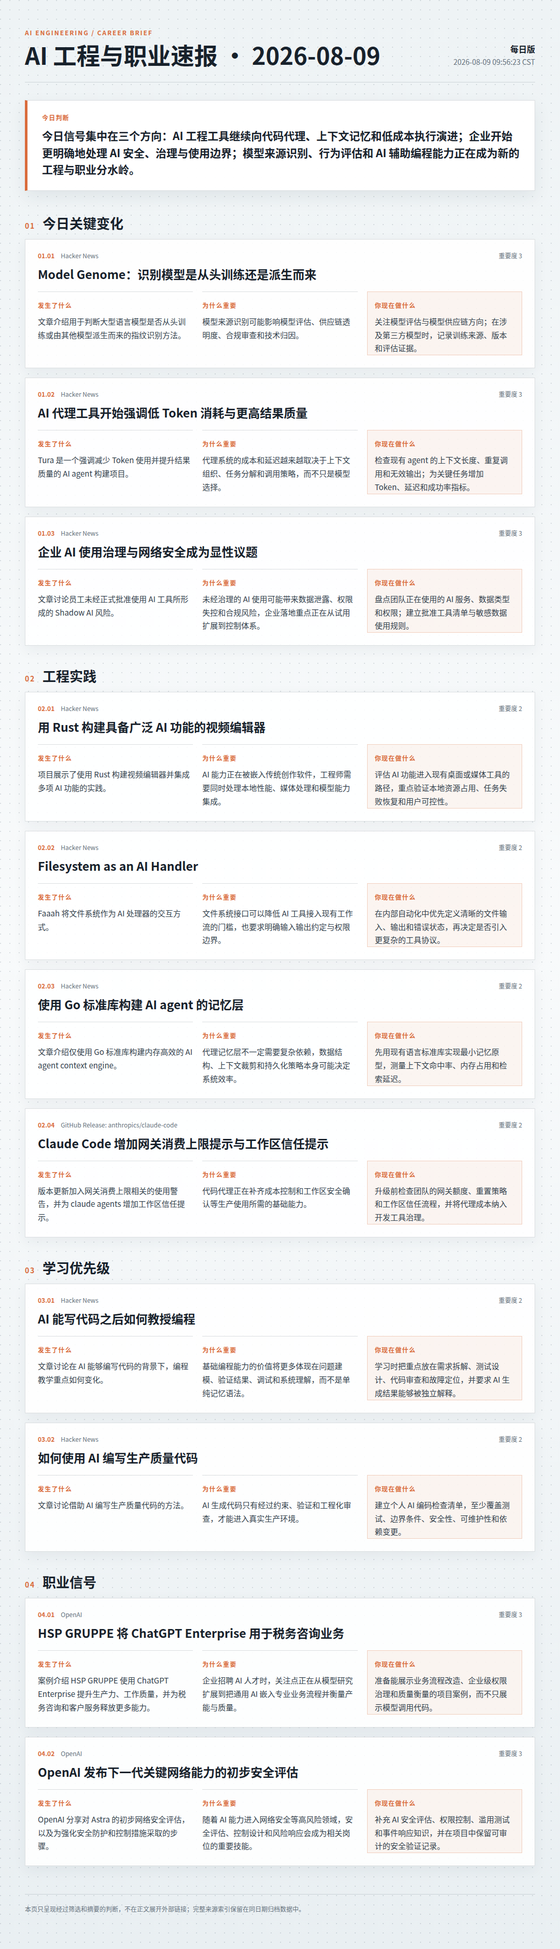
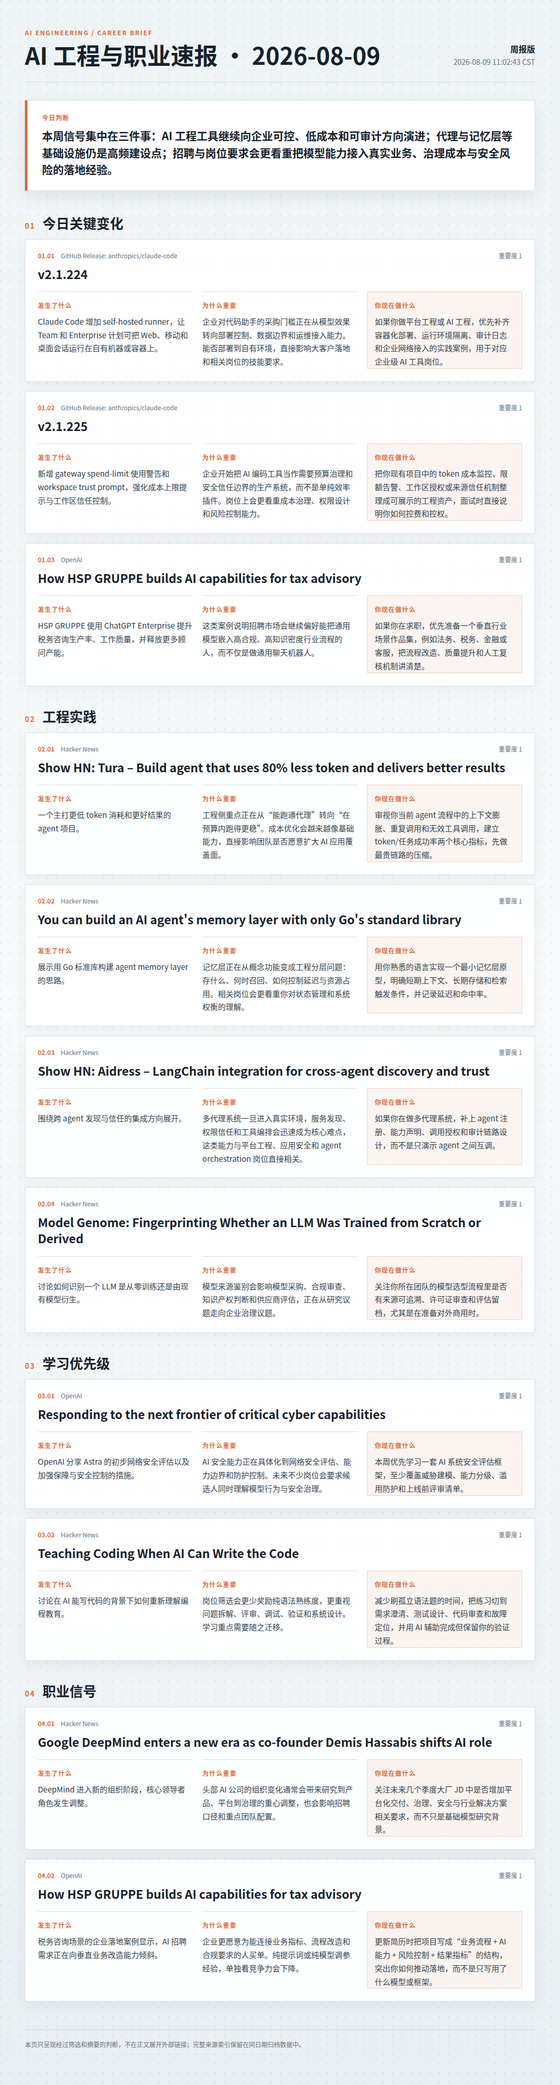
chore: publish weekly career radar

diff --git a/docs/daily/2026-08-09.html b/docs/daily/2026-08-09.html
@@ -64,107 +64,107 @@
   <main class="page">
     <header class="masthead">
       <div><div class="eyebrow">AI Engineering / Career Brief</div><h1>AI 工程与职业速报 · 2026-08-09</h1></div>
-      <div class="meta"><strong>每日版</strong>2026-08-09 09:56:23 CST</div>
+      <div class="meta"><strong>周报版</strong>2026-08-09 11:02:43 CST</div>
     </header>
-    <section class="judgment"><div class="judgment-label">今日判断</div><p>今日信号集中在三个方向：AI 工程工具继续向代码代理、上下文记忆和低成本执行演进；企业开始更明确地处理 AI 安全、治理与使用边界；模型来源识别、行为评估和 AI 辅助编程能力正在成为新的工程与职业分水岭。</p></section>
+    <section class="judgment"><div class="judgment-label">今日判断</div><p>本周信号集中在三件事：AI 工程工具继续向企业可控、低成本和可审计方向演进；代理与记忆层等基础设施仍是高频建设点；招聘与岗位要求会更看重把模型能力接入真实业务、治理成本与安全风险的落地经验。</p></section>
     <section class="brief-section">
   <div class="section-heading"><span class="section-number">01</span><h2>今日关键变化</h2></div>
   <article class="brief-item">
-  <div class="item-topline"><span class="item-number">01.01</span><span class="item-source">Hacker News</span><span class="item-importance">重要度 3</span></div>
-  <h3>Model Genome：识别模型是从头训练还是派生而来</h3>
+  <div class="item-topline"><span class="item-number">01.01</span><span class="item-source">GitHub Release: anthropics/claude-code</span><span class="item-importance">重要度 1</span></div>
+  <h3>v2.1.224</h3>
   <div class="item-grid">
-    <div class="item-field"><span class="field-label">发生了什么</span><p>文章介绍用于判断大型语言模型是否从头训练或由其他模型派生而来的指纹识别方法。</p></div>
-    <div class="item-field"><span class="field-label">为什么重要</span><p>模型来源识别可能影响模型评估、供应链透明度、合规审查和技术归因。</p></div>
-    <div class="item-field action-field"><span class="field-label">你现在做什么</span><p>关注模型评估与模型供应链方向；在涉及第三方模型时，记录训练来源、版本和评估证据。</p></div>
+    <div class="item-field"><span class="field-label">发生了什么</span><p>Claude Code 增加 self-hosted runner，让 Team 和 Enterprise 计划可把 Web、移动和桌面会话运行在自有机器或容器上。</p></div>
+    <div class="item-field"><span class="field-label">为什么重要</span><p>企业对代码助手的采购门槛正在从模型效果转向部署控制、数据边界和运维接入能力。能否部署到自有环境，直接影响大客户落地和相关岗位的技能要求。</p></div>
+    <div class="item-field action-field"><span class="field-label">你现在做什么</span><p>如果你做平台工程或 AI 工程，优先补齐容器化部署、运行环境隔离、审计日志和企业网络接入的实践案例，用于对应企业级 AI 工具岗位。</p></div>
   </div>
 </article><article class="brief-item">
-  <div class="item-topline"><span class="item-number">01.02</span><span class="item-source">Hacker News</span><span class="item-importance">重要度 3</span></div>
-  <h3>AI 代理工具开始强调低 Token 消耗与更高结果质量</h3>
+  <div class="item-topline"><span class="item-number">01.02</span><span class="item-source">GitHub Release: anthropics/claude-code</span><span class="item-importance">重要度 1</span></div>
+  <h3>v2.1.225</h3>
   <div class="item-grid">
-    <div class="item-field"><span class="field-label">发生了什么</span><p>Tura 是一个强调减少 Token 使用并提升结果质量的 AI agent 构建项目。</p></div>
-    <div class="item-field"><span class="field-label">为什么重要</span><p>代理系统的成本和延迟越来越取决于上下文组织、任务分解和调用策略，而不只是模型选择。</p></div>
-    <div class="item-field action-field"><span class="field-label">你现在做什么</span><p>检查现有 agent 的上下文长度、重复调用和无效输出；为关键任务增加 Token、延迟和成功率指标。</p></div>
+    <div class="item-field"><span class="field-label">发生了什么</span><p>新增 gateway spend-limit 使用警告和 workspace trust prompt，强化成本上限提示与工作区信任控制。</p></div>
+    <div class="item-field"><span class="field-label">为什么重要</span><p>企业开始把 AI 编码工具当作需要预算治理和安全信任边界的生产系统，而不是单纯效率插件。岗位上会更看重成本治理、权限设计和风险控制能力。</p></div>
+    <div class="item-field action-field"><span class="field-label">你现在做什么</span><p>把你现有项目中的 token 成本监控、限额告警、工作区授权或来源信任机制整理成可展示的工程资产，面试时直接说明你如何控费和控权。</p></div>
   </div>
 </article><article class="brief-item">
-  <div class="item-topline"><span class="item-number">01.03</span><span class="item-source">Hacker News</span><span class="item-importance">重要度 3</span></div>
-  <h3>企业 AI 使用治理与网络安全成为显性议题</h3>
+  <div class="item-topline"><span class="item-number">01.03</span><span class="item-source">OpenAI</span><span class="item-importance">重要度 1</span></div>
+  <h3>How HSP GRUPPE builds AI capabilities for tax advisory</h3>
   <div class="item-grid">
-    <div class="item-field"><span class="field-label">发生了什么</span><p>文章讨论员工未经正式批准使用 AI 工具所形成的 Shadow AI 风险。</p></div>
-    <div class="item-field"><span class="field-label">为什么重要</span><p>未经治理的 AI 使用可能带来数据泄露、权限失控和合规风险，企业落地重点正在从试用扩展到控制体系。</p></div>
-    <div class="item-field action-field"><span class="field-label">你现在做什么</span><p>盘点团队正在使用的 AI 服务、数据类型和权限；建立批准工具清单与敏感数据使用规则。</p></div>
+    <div class="item-field"><span class="field-label">发生了什么</span><p>HSP GRUPPE 使用 ChatGPT Enterprise 提升税务咨询生产率、工作质量，并释放更多顾问产能。</p></div>
+    <div class="item-field"><span class="field-label">为什么重要</span><p>这类案例说明招聘市场会继续偏好能把通用模型嵌入高合规、高知识密度行业流程的人，而不仅是做通用聊天机器人。</p></div>
+    <div class="item-field action-field"><span class="field-label">你现在做什么</span><p>如果你在求职，优先准备一个垂直行业场景作品集，例如法务、税务、金融或客服，把流程改造、质量提升和人工复核机制讲清楚。</p></div>
   </div>
 </article>
 </section><section class="brief-section">
   <div class="section-heading"><span class="section-number">02</span><h2>工程实践</h2></div>
   <article class="brief-item">
-  <div class="item-topline"><span class="item-number">02.01</span><span class="item-source">Hacker News</span><span class="item-importance">重要度 2</span></div>
-  <h3>用 Rust 构建具备广泛 AI 功能的视频编辑器</h3>
+  <div class="item-topline"><span class="item-number">02.01</span><span class="item-source">Hacker News</span><span class="item-importance">重要度 1</span></div>
+  <h3>Show HN: Tura – Build agent that uses 80% less token and delivers better results</h3>
   <div class="item-grid">
-    <div class="item-field"><span class="field-label">发生了什么</span><p>项目展示了使用 Rust 构建视频编辑器并集成多项 AI 功能的实践。</p></div>
-    <div class="item-field"><span class="field-label">为什么重要</span><p>AI 能力正在被嵌入传统创作软件，工程师需要同时处理本地性能、媒体处理和模型能力集成。</p></div>
-    <div class="item-field action-field"><span class="field-label">你现在做什么</span><p>评估 AI 功能进入现有桌面或媒体工具的路径，重点验证本地资源占用、任务失败恢复和用户可控性。</p></div>
+    <div class="item-field"><span class="field-label">发生了什么</span><p>一个主打更低 token 消耗和更好结果的 agent 项目。</p></div>
+    <div class="item-field"><span class="field-label">为什么重要</span><p>工程侧重点正在从“能跑通代理”转向“在预算内跑得更稳”。成本优化会越来越像基础能力，直接影响团队是否愿意扩大 AI 应用覆盖面。</p></div>
+    <div class="item-field action-field"><span class="field-label">你现在做什么</span><p>审视你当前 agent 流程中的上下文膨胀、重复调用和无效工具调用，建立 token/任务成功率两个核心指标，先做最贵链路的压缩。</p></div>
   </div>
 </article><article class="brief-item">
-  <div class="item-topline"><span class="item-number">02.02</span><span class="item-source">Hacker News</span><span class="item-importance">重要度 2</span></div>
-  <h3>Filesystem as an AI Handler</h3>
+  <div class="item-topline"><span class="item-number">02.02</span><span class="item-source">Hacker News</span><span class="item-importance">重要度 1</span></div>
+  <h3>You can build an AI agent&#x27;s memory layer with only Go&#x27;s standard library</h3>
   <div class="item-grid">
-    <div class="item-field"><span class="field-label">发生了什么</span><p>Faaah 将文件系统作为 AI 处理器的交互方式。</p></div>
-    <div class="item-field"><span class="field-label">为什么重要</span><p>文件系统接口可以降低 AI 工具接入现有工作流的门槛，也要求明确输入输出约定与权限边界。</p></div>
-    <div class="item-field action-field"><span class="field-label">你现在做什么</span><p>在内部自动化中优先定义清晰的文件输入、输出和错误状态，再决定是否引入更复杂的工具协议。</p></div>
+    <div class="item-field"><span class="field-label">发生了什么</span><p>展示用 Go 标准库构建 agent memory layer 的思路。</p></div>
+    <div class="item-field"><span class="field-label">为什么重要</span><p>记忆层正在从概念功能变成工程分层问题：存什么、何时召回、如何控制延迟与资源占用。相关岗位会更看重你对状态管理和系统权衡的理解。</p></div>
+    <div class="item-field action-field"><span class="field-label">你现在做什么</span><p>用你熟悉的语言实现一个最小记忆层原型，明确短期上下文、长期存储和检索触发条件，并记录延迟和命中率。</p></div>
   </div>
 </article><article class="brief-item">
-  <div class="item-topline"><span class="item-number">02.03</span><span class="item-source">Hacker News</span><span class="item-importance">重要度 2</span></div>
-  <h3>使用 Go 标准库构建 AI agent 的记忆层</h3>
+  <div class="item-topline"><span class="item-number">02.03</span><span class="item-source">Hacker News</span><span class="item-importance">重要度 1</span></div>
+  <h3>Show HN: Aidress – LangChain integration for cross-agent discovery and trust</h3>
   <div class="item-grid">
-    <div class="item-field"><span class="field-label">发生了什么</span><p>文章介绍仅使用 Go 标准库构建内存高效的 AI agent context engine。</p></div>
-    <div class="item-field"><span class="field-label">为什么重要</span><p>代理记忆层不一定需要复杂依赖，数据结构、上下文裁剪和持久化策略本身可能决定系统效率。</p></div>
-    <div class="item-field action-field"><span class="field-label">你现在做什么</span><p>先用现有语言标准库实现最小记忆原型，测量上下文命中率、内存占用和检索延迟。</p></div>
+    <div class="item-field"><span class="field-label">发生了什么</span><p>围绕跨 agent 发现与信任的集成方向展开。</p></div>
+    <div class="item-field"><span class="field-label">为什么重要</span><p>多代理系统一旦进入真实环境，服务发现、权限信任和工具编排会迅速成为核心难点，这类能力与平台工程、应用安全和 agent orchestration 岗位直接相关。</p></div>
+    <div class="item-field action-field"><span class="field-label">你现在做什么</span><p>如果你在做多代理系统，补上 agent 注册、能力声明、调用授权和审计链路设计，而不是只演示 agent 之间互调。</p></div>
   </div>
 </article><article class="brief-item">
-  <div class="item-topline"><span class="item-number">02.04</span><span class="item-source">GitHub Release: anthropics/claude-code</span><span class="item-importance">重要度 2</span></div>
-  <h3>Claude Code 增加网关消费上限提示与工作区信任提示</h3>
+  <div class="item-topline"><span class="item-number">02.04</span><span class="item-source">Hacker News</span><span class="item-importance">重要度 1</span></div>
+  <h3>Model Genome: Fingerprinting Whether an LLM Was Trained from Scratch or Derived</h3>
   <div class="item-grid">
-    <div class="item-field"><span class="field-label">发生了什么</span><p>版本更新加入网关消费上限相关的使用警告，并为 claude agents 增加工作区信任提示。</p></div>
-    <div class="item-field"><span class="field-label">为什么重要</span><p>代码代理正在补齐成本控制和工作区安全确认等生产使用所需的基础能力。</p></div>
-    <div class="item-field action-field"><span class="field-label">你现在做什么</span><p>升级前检查团队的网关额度、重置策略和工作区信任流程，并将代理成本纳入开发工具治理。</p></div>
+    <div class="item-field"><span class="field-label">发生了什么</span><p>讨论如何识别一个 LLM 是从零训练还是由现有模型衍生。</p></div>
+    <div class="item-field"><span class="field-label">为什么重要</span><p>模型来源鉴别会影响模型采购、合规审查、知识产权判断和供应商评估，正在从研究议题走向企业治理议题。</p></div>
+    <div class="item-field action-field"><span class="field-label">你现在做什么</span><p>关注你所在团队的模型选型流程里是否有来源可追溯、许可证审查和评估留档，尤其是在准备对外商用时。</p></div>
   </div>
 </article>
 </section><section class="brief-section">
   <div class="section-heading"><span class="section-number">03</span><h2>学习优先级</h2></div>
   <article class="brief-item">
-  <div class="item-topline"><span class="item-number">03.01</span><span class="item-source">Hacker News</span><span class="item-importance">重要度 2</span></div>
-  <h3>AI 能写代码之后如何教授编程</h3>
+  <div class="item-topline"><span class="item-number">03.01</span><span class="item-source">OpenAI</span><span class="item-importance">重要度 1</span></div>
+  <h3>Responding to the next frontier of critical cyber capabilities</h3>
   <div class="item-grid">
-    <div class="item-field"><span class="field-label">发生了什么</span><p>文章讨论在 AI 能够编写代码的背景下，编程教学重点如何变化。</p></div>
-    <div class="item-field"><span class="field-label">为什么重要</span><p>基础编程能力的价值将更多体现在问题建模、验证结果、调试和系统理解，而不是单纯记忆语法。</p></div>
-    <div class="item-field action-field"><span class="field-label">你现在做什么</span><p>学习时把重点放在需求拆解、测试设计、代码审查和故障定位，并要求 AI 生成结果能够被独立解释。</p></div>
+    <div class="item-field"><span class="field-label">发生了什么</span><p>OpenAI 分享 Astra 的初步网络安全评估以及加强保障与安全控制的措施。</p></div>
+    <div class="item-field"><span class="field-label">为什么重要</span><p>AI 安全能力正在具体化到网络安全评估、能力边界和防护控制。未来不少岗位会要求候选人同时理解模型行为与安全治理。</p></div>
+    <div class="item-field action-field"><span class="field-label">你现在做什么</span><p>本周优先学习一套 AI 系统安全评估框架，至少覆盖威胁建模、能力分级、滥用防护和上线前评审清单。</p></div>
   </div>
 </article><article class="brief-item">
-  <div class="item-topline"><span class="item-number">03.02</span><span class="item-source">Hacker News</span><span class="item-importance">重要度 2</span></div>
-  <h3>如何使用 AI 编写生产质量代码</h3>
+  <div class="item-topline"><span class="item-number">03.02</span><span class="item-source">Hacker News</span><span class="item-importance">重要度 1</span></div>
+  <h3>Teaching Coding When AI Can Write the Code</h3>
   <div class="item-grid">
-    <div class="item-field"><span class="field-label">发生了什么</span><p>文章讨论借助 AI 编写生产质量代码的方法。</p></div>
-    <div class="item-field"><span class="field-label">为什么重要</span><p>AI 生成代码只有经过约束、验证和工程化审查，才能进入真实生产环境。</p></div>
-    <div class="item-field action-field"><span class="field-label">你现在做什么</span><p>建立个人 AI 编码检查清单，至少覆盖测试、边界条件、安全性、可维护性和依赖变更。</p></div>
+    <div class="item-field"><span class="field-label">发生了什么</span><p>讨论在 AI 能写代码的背景下如何重新理解编程教育。</p></div>
+    <div class="item-field"><span class="field-label">为什么重要</span><p>岗位筛选会更少奖励纯语法熟练度，更重视问题拆解、评审、调试、验证和系统设计。学习重点需要随之迁移。</p></div>
+    <div class="item-field action-field"><span class="field-label">你现在做什么</span><p>减少刷孤立语法题的时间，把练习切到需求澄清、测试设计、代码审查和故障定位，并用 AI 辅助完成但保留你的验证过程。</p></div>
   </div>
 </article>
 </section><section class="brief-section">
   <div class="section-heading"><span class="section-number">04</span><h2>职业信号</h2></div>
   <article class="brief-item">
-  <div class="item-topline"><span class="item-number">04.01</span><span class="item-source">OpenAI</span><span class="item-importance">重要度 3</span></div>
-  <h3>HSP GRUPPE 将 ChatGPT Enterprise 用于税务咨询业务</h3>
+  <div class="item-topline"><span class="item-number">04.01</span><span class="item-source">Hacker News</span><span class="item-importance">重要度 1</span></div>
+  <h3>Google DeepMind enters a new era as co-founder Demis Hassabis shifts AI role</h3>
   <div class="item-grid">
-    <div class="item-field"><span class="field-label">发生了什么</span><p>案例介绍 HSP GRUPPE 使用 ChatGPT Enterprise 提升生产力、工作质量，并为税务咨询和客户服务释放更多能力。</p></div>
-    <div class="item-field"><span class="field-label">为什么重要</span><p>企业招聘 AI 人才时，关注点正在从模型研究扩展到把通用 AI 嵌入专业业务流程并衡量产能与质量。</p></div>
-    <div class="item-field action-field"><span class="field-label">你现在做什么</span><p>准备能展示业务流程改造、企业级权限治理和质量衡量的项目案例，而不只展示模型调用代码。</p></div>
+    <div class="item-field"><span class="field-label">发生了什么</span><p>DeepMind 进入新的组织阶段，核心领导者角色发生调整。</p></div>
+    <div class="item-field"><span class="field-label">为什么重要</span><p>头部 AI 公司的组织变化通常会带来研究到产品、平台到治理的重心调整，也会影响招聘口径和重点团队配置。</p></div>
+    <div class="item-field action-field"><span class="field-label">你现在做什么</span><p>关注未来几个季度大厂 JD 中是否增加平台化交付、治理、安全与行业解决方案相关要求，而不只是基础模型研究背景。</p></div>
   </div>
 </article><article class="brief-item">
-  <div class="item-topline"><span class="item-number">04.02</span><span class="item-source">OpenAI</span><span class="item-importance">重要度 3</span></div>
-  <h3>OpenAI 发布下一代关键网络能力的初步安全评估</h3>
+  <div class="item-topline"><span class="item-number">04.02</span><span class="item-source">OpenAI</span><span class="item-importance">重要度 1</span></div>
+  <h3>How HSP GRUPPE builds AI capabilities for tax advisory</h3>
   <div class="item-grid">
-    <div class="item-field"><span class="field-label">发生了什么</span><p>OpenAI 分享对 Astra 的初步网络安全评估，以及为强化安全防护和控制措施采取的步骤。</p></div>
-    <div class="item-field"><span class="field-label">为什么重要</span><p>随着 AI 能力进入网络安全等高风险领域，安全评估、控制设计和风险响应会成为相关岗位的重要技能。</p></div>
-    <div class="item-field action-field"><span class="field-label">你现在做什么</span><p>补充 AI 安全评估、权限控制、滥用测试和事件响应知识，并在项目中保留可审计的安全验证记录。</p></div>
+    <div class="item-field"><span class="field-label">发生了什么</span><p>税务咨询场景的企业落地案例显示，AI 招聘需求正在向垂直业务改造能力倾斜。</p></div>
+    <div class="item-field"><span class="field-label">为什么重要</span><p>企业更愿意为能连接业务指标、流程改造和合规要求的人买单。纯提示词或纯模型调参经验，单独看竞争力会下降。</p></div>
+    <div class="item-field action-field"><span class="field-label">你现在做什么</span><p>更新简历时把项目写成“业务流程 + AI 能力 + 风险控制 + 结果指标”的结构，突出你如何推动落地，而不是只写用了什么模型或框架。</p></div>
   </div>
 </article>
 </section>

diff --git a/docs/daily/2026-08-09.md b/docs/daily/2026-08-09.md
@@ -1,92 +1,92 @@
 # AI 工程与职业速报 · 2026-08-09
 
-> 生成时间：2026-08-09 09:56:23 CST  |  模式：daily
+> 生成时间：2026-08-09 11:02:43 CST  |  模式：weekly
 
 ## 今日判断
 
-今日信号集中在三个方向：AI 工程工具继续向代码代理、上下文记忆和低成本执行演进；企业开始更明确地处理 AI 安全、治理与使用边界；模型来源识别、行为评估和 AI 辅助编程能力正在成为新的工程与职业分水岭。
+本周信号集中在三件事：AI 工程工具继续向企业可控、低成本和可审计方向演进；代理与记忆层等基础设施仍是高频建设点；招聘与岗位要求会更看重把模型能力接入真实业务、治理成本与安全风险的落地经验。
 
 ## 今日关键变化
 
-### [Model Genome：识别模型是从头训练还是派生而来](https://huggingface.co/blog/mayafree/model-dna)
+### [v2.1.224](https://github.com/anthropics/claude-code/releases/tag/v2.1.224)
 
-- 来源：Hacker News
-- 摘要：文章介绍用于判断大型语言模型是否从头训练或由其他模型派生而来的指纹识别方法。
-- 为什么重要：模型来源识别可能影响模型评估、供应链透明度、合规审查和技术归因。
-- 下一步：关注模型评估与模型供应链方向；在涉及第三方模型时，记录训练来源、版本和评估证据。
+- 来源：GitHub Release: anthropics/claude-code
+- 摘要：Claude Code 增加 self-hosted runner，让 Team 和 Enterprise 计划可把 Web、移动和桌面会话运行在自有机器或容器上。
+- 为什么重要：企业对代码助手的采购门槛正在从模型效果转向部署控制、数据边界和运维接入能力。能否部署到自有环境，直接影响大客户落地和相关岗位的技能要求。
+- 下一步：如果你做平台工程或 AI 工程，优先补齐容器化部署、运行环境隔离、审计日志和企业网络接入的实践案例，用于对应企业级 AI 工具岗位。
 
-### [AI 代理工具开始强调低 Token 消耗与更高结果质量](https://github.com/Tura-AI/tura)
+### [v2.1.225](https://github.com/anthropics/claude-code/releases/tag/v2.1.225)
 
-- 来源：Hacker News
-- 摘要：Tura 是一个强调减少 Token 使用并提升结果质量的 AI agent 构建项目。
-- 为什么重要：代理系统的成本和延迟越来越取决于上下文组织、任务分解和调用策略，而不只是模型选择。
-- 下一步：检查现有 agent 的上下文长度、重复调用和无效输出；为关键任务增加 Token、延迟和成功率指标。
+- 来源：GitHub Release: anthropics/claude-code
+- 摘要：新增 gateway spend-limit 使用警告和 workspace trust prompt，强化成本上限提示与工作区信任控制。
+- 为什么重要：企业开始把 AI 编码工具当作需要预算治理和安全信任边界的生产系统，而不是单纯效率插件。岗位上会更看重成本治理、权限设计和风险控制能力。
+- 下一步：把你现有项目中的 token 成本监控、限额告警、工作区授权或来源信任机制整理成可展示的工程资产，面试时直接说明你如何控费和控权。
 
-### [企业 AI 使用治理与网络安全成为显性议题](https://proton.me/business/blog/shadow-ai)
+### [How HSP GRUPPE builds AI capabilities for tax advisory](https://openai.com/index/hsp-gruppe)
 
-- 来源：Hacker News
-- 摘要：文章讨论员工未经正式批准使用 AI 工具所形成的 Shadow AI 风险。
-- 为什么重要：未经治理的 AI 使用可能带来数据泄露、权限失控和合规风险，企业落地重点正在从试用扩展到控制体系。
-- 下一步：盘点团队正在使用的 AI 服务、数据类型和权限；建立批准工具清单与敏感数据使用规则。
+- 来源：OpenAI
+- 摘要：HSP GRUPPE 使用 ChatGPT Enterprise 提升税务咨询生产率、工作质量，并释放更多顾问产能。
+- 为什么重要：这类案例说明招聘市场会继续偏好能把通用模型嵌入高合规、高知识密度行业流程的人，而不仅是做通用聊天机器人。
+- 下一步：如果你在求职，优先准备一个垂直行业场景作品集，例如法务、税务、金融或客服，把流程改造、质量提升和人工复核机制讲清楚。
 
 ## 工程实践
 
-### [用 Rust 构建具备广泛 AI 功能的视频编辑器](https://github.com/heng30/wayshot)
+### [Show HN: Tura – Build agent that uses 80% less token and delivers better results](https://github.com/Tura-AI/tura)
 
 - 来源：Hacker News
-- 摘要：项目展示了使用 Rust 构建视频编辑器并集成多项 AI 功能的实践。
-- 为什么重要：AI 能力正在被嵌入传统创作软件，工程师需要同时处理本地性能、媒体处理和模型能力集成。
-- 下一步：评估 AI 功能进入现有桌面或媒体工具的路径，重点验证本地资源占用、任务失败恢复和用户可控性。
+- 摘要：一个主打更低 token 消耗和更好结果的 agent 项目。
+- 为什么重要：工程侧重点正在从“能跑通代理”转向“在预算内跑得更稳”。成本优化会越来越像基础能力，直接影响团队是否愿意扩大 AI 应用覆盖面。
+- 下一步：审视你当前 agent 流程中的上下文膨胀、重复调用和无效工具调用，建立 token/任务成功率两个核心指标，先做最贵链路的压缩。
 
-### [Filesystem as an AI Handler](https://github.com/sebastiancarlos/faaah)
-
-- 来源：Hacker News
-- 摘要：Faaah 将文件系统作为 AI 处理器的交互方式。
-- 为什么重要：文件系统接口可以降低 AI 工具接入现有工作流的门槛，也要求明确输入输出约定与权限边界。
-- 下一步：在内部自动化中优先定义清晰的文件输入、输出和错误状态，再决定是否引入更复杂的工具协议。
-
-### [使用 Go 标准库构建 AI agent 的记忆层](https://towardsdev.com/the-memory-efficient-ai-agent-building-a-context-engine-in-go-d4b7557c44d8?sk=22b2ffc30beac55a6f47841eb4df980b)
+### [You can build an AI agent's memory layer with only Go's standard library](https://towardsdev.com/the-memory-efficient-ai-agent-building-a-context-engine-in-go-d4b7557c44d8?sk=22b2ffc30beac55a6f47841eb4df980b)
 
 - 来源：Hacker News
-- 摘要：文章介绍仅使用 Go 标准库构建内存高效的 AI agent context engine。
-- 为什么重要：代理记忆层不一定需要复杂依赖，数据结构、上下文裁剪和持久化策略本身可能决定系统效率。
-- 下一步：先用现有语言标准库实现最小记忆原型，测量上下文命中率、内存占用和检索延迟。
+- 摘要：展示用 Go 标准库构建 agent memory layer 的思路。
+- 为什么重要：记忆层正在从概念功能变成工程分层问题：存什么、何时召回、如何控制延迟与资源占用。相关岗位会更看重你对状态管理和系统权衡的理解。
+- 下一步：用你熟悉的语言实现一个最小记忆层原型，明确短期上下文、长期存储和检索触发条件，并记录延迟和命中率。
 
-### [Claude Code 增加网关消费上限提示与工作区信任提示](https://github.com/anthropics/claude-code/releases/tag/v2.1.225)
+### [Show HN: Aidress – LangChain integration for cross-agent discovery and trust](https://docs.langchain.com/oss/python/integrations/tools)
 
-- 来源：GitHub Release: anthropics/claude-code
-- 摘要：版本更新加入网关消费上限相关的使用警告，并为 claude agents 增加工作区信任提示。
-- 为什么重要：代码代理正在补齐成本控制和工作区安全确认等生产使用所需的基础能力。
-- 下一步：升级前检查团队的网关额度、重置策略和工作区信任流程，并将代理成本纳入开发工具治理。
+- 来源：Hacker News
+- 摘要：围绕跨 agent 发现与信任的集成方向展开。
+- 为什么重要：多代理系统一旦进入真实环境，服务发现、权限信任和工具编排会迅速成为核心难点，这类能力与平台工程、应用安全和 agent orchestration 岗位直接相关。
+- 下一步：如果你在做多代理系统，补上 agent 注册、能力声明、调用授权和审计链路设计，而不是只演示 agent 之间互调。
+
+### [Model Genome: Fingerprinting Whether an LLM Was Trained from Scratch or Derived](https://huggingface.co/blog/mayafree/model-dna)
+
+- 来源：Hacker News
+- 摘要：讨论如何识别一个 LLM 是从零训练还是由现有模型衍生。
+- 为什么重要：模型来源鉴别会影响模型采购、合规审查、知识产权判断和供应商评估，正在从研究议题走向企业治理议题。
+- 下一步：关注你所在团队的模型选型流程里是否有来源可追溯、许可证审查和评估留档，尤其是在准备对外商用时。
 
 ## 学习优先级
 
-### [AI 能写代码之后如何教授编程](https://www.oreilly.com/radar/teaching-coding-when-ai-can-write-the-code/)
+### [Responding to the next frontier of critical cyber capabilities](https://openai.com/index/responding-next-frontier-critical-cyber-capabilities)
+
+- 来源：OpenAI
+- 摘要：OpenAI 分享 Astra 的初步网络安全评估以及加强保障与安全控制的措施。
+- 为什么重要：AI 安全能力正在具体化到网络安全评估、能力边界和防护控制。未来不少岗位会要求候选人同时理解模型行为与安全治理。
+- 下一步：本周优先学习一套 AI 系统安全评估框架，至少覆盖威胁建模、能力分级、滥用防护和上线前评审清单。
+
+### [Teaching Coding When AI Can Write the Code](https://www.oreilly.com/radar/teaching-coding-when-ai-can-write-the-code/)
 
 - 来源：Hacker News
-- 摘要：文章讨论在 AI 能够编写代码的背景下，编程教学重点如何变化。
-- 为什么重要：基础编程能力的价值将更多体现在问题建模、验证结果、调试和系统理解，而不是单纯记忆语法。
-- 下一步：学习时把重点放在需求拆解、测试设计、代码审查和故障定位，并要求 AI 生成结果能够被独立解释。
-
-### [如何使用 AI 编写生产质量代码](https://curtispoe.org/paad/)
-
-- 来源：Hacker News
-- 摘要：文章讨论借助 AI 编写生产质量代码的方法。
-- 为什么重要：AI 生成代码只有经过约束、验证和工程化审查，才能进入真实生产环境。
-- 下一步：建立个人 AI 编码检查清单，至少覆盖测试、边界条件、安全性、可维护性和依赖变更。
+- 摘要：讨论在 AI 能写代码的背景下如何重新理解编程教育。
+- 为什么重要：岗位筛选会更少奖励纯语法熟练度，更重视问题拆解、评审、调试、验证和系统设计。学习重点需要随之迁移。
+- 下一步：减少刷孤立语法题的时间，把练习切到需求澄清、测试设计、代码审查和故障定位，并用 AI 辅助完成但保留你的验证过程。
 
 ## 职业信号
 
-### [HSP GRUPPE 将 ChatGPT Enterprise 用于税务咨询业务](https://openai.com/index/hsp-gruppe)
+### [Google DeepMind enters a new era as co-founder Demis Hassabis shifts AI role](https://www.theguardian.com/technology/2026/aug/08/google-demis-hassabis-deepmind-shifts-role)
+
+- 来源：Hacker News
+- 摘要：DeepMind 进入新的组织阶段，核心领导者角色发生调整。
+- 为什么重要：头部 AI 公司的组织变化通常会带来研究到产品、平台到治理的重心调整，也会影响招聘口径和重点团队配置。
+- 下一步：关注未来几个季度大厂 JD 中是否增加平台化交付、治理、安全与行业解决方案相关要求，而不只是基础模型研究背景。
+
+### [How HSP GRUPPE builds AI capabilities for tax advisory](https://openai.com/index/hsp-gruppe)
 
 - 来源：OpenAI
-- 摘要：案例介绍 HSP GRUPPE 使用 ChatGPT Enterprise 提升生产力、工作质量，并为税务咨询和客户服务释放更多能力。
-- 为什么重要：企业招聘 AI 人才时，关注点正在从模型研究扩展到把通用 AI 嵌入专业业务流程并衡量产能与质量。
-- 下一步：准备能展示业务流程改造、企业级权限治理和质量衡量的项目案例，而不只展示模型调用代码。
-
-### [OpenAI 发布下一代关键网络能力的初步安全评估](https://openai.com/index/responding-next-frontier-critical-cyber-capabilities)
-
-- 来源：OpenAI
-- 摘要：OpenAI 分享对 Astra 的初步网络安全评估，以及为强化安全防护和控制措施采取的步骤。
-- 为什么重要：随着 AI 能力进入网络安全等高风险领域，安全评估、控制设计和风险响应会成为相关岗位的重要技能。
-- 下一步：补充 AI 安全评估、权限控制、滥用测试和事件响应知识，并在项目中保留可审计的安全验证记录。
+- 摘要：税务咨询场景的企业落地案例显示，AI 招聘需求正在向垂直业务改造能力倾斜。
+- 为什么重要：企业更愿意为能连接业务指标、流程改造和合规要求的人买单。纯提示词或纯模型调参经验，单独看竞争力会下降。
+- 下一步：更新简历时把项目写成“业务流程 + AI 能力 + 风险控制 + 结果指标”的结构，突出你如何推动落地，而不是只写用了什么模型或框架。
